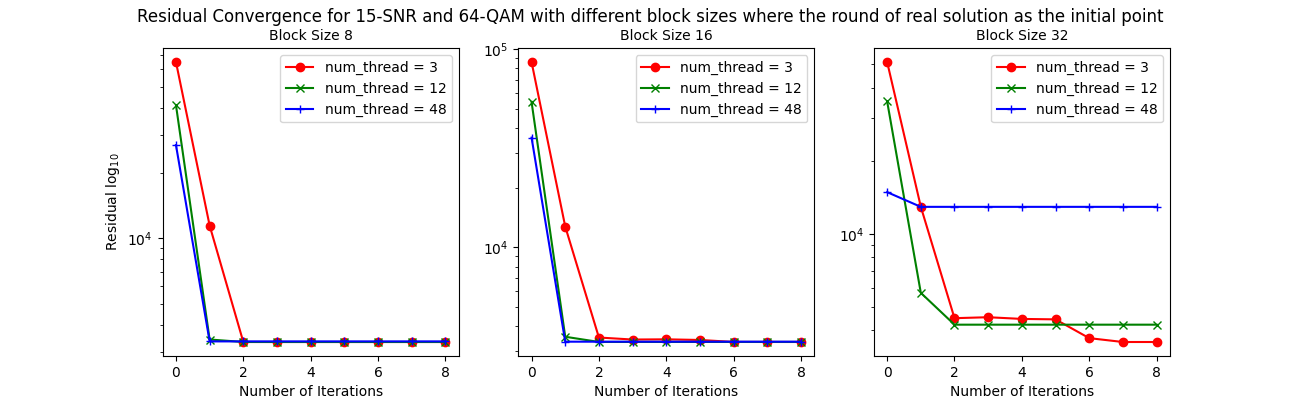
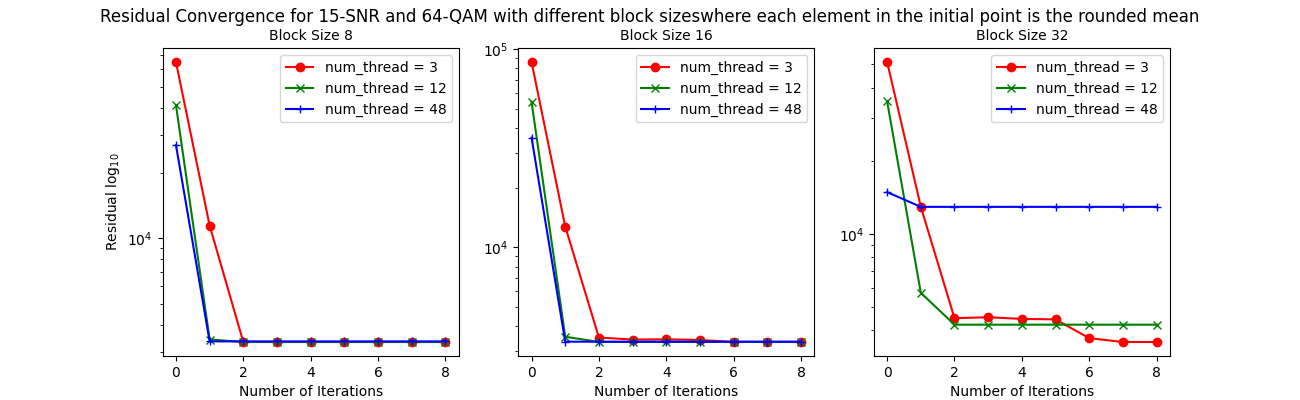
Add results for residual convergence

Changed region(s): [[0.0615, 0.0, 0.9231, 0.06]]

diff --git a/past_results_2020_11_21/plot_helper.py b/past_results_2020_11_21/plot_helper.py
@@ -199,12 +199,13 @@ def plot_res_conv(n):
                     title = 'Residual Convergence for' + SNR + '-SNR and ' \
                             + str(pow(4, f)) + '-QAM with different block sizes'
 
-                    if init_value in '-1':
+                    if init_value in '1':
+                        title = title + 'where each element in the initial point is the rounded mean'
+                    elif init_value in '-1':
                         title = title + ' where the round of real solution as the initial point'
                     elif init_value in '0':
                         title = title + ' where each element in the initial point is 0'
-                    elif init_value in '1':
-                        title = title + 'where each element in the initial point is the rounded mean'
+
 
                     fig.suptitle(title, fontsize=12)
                     plt.savefig(
